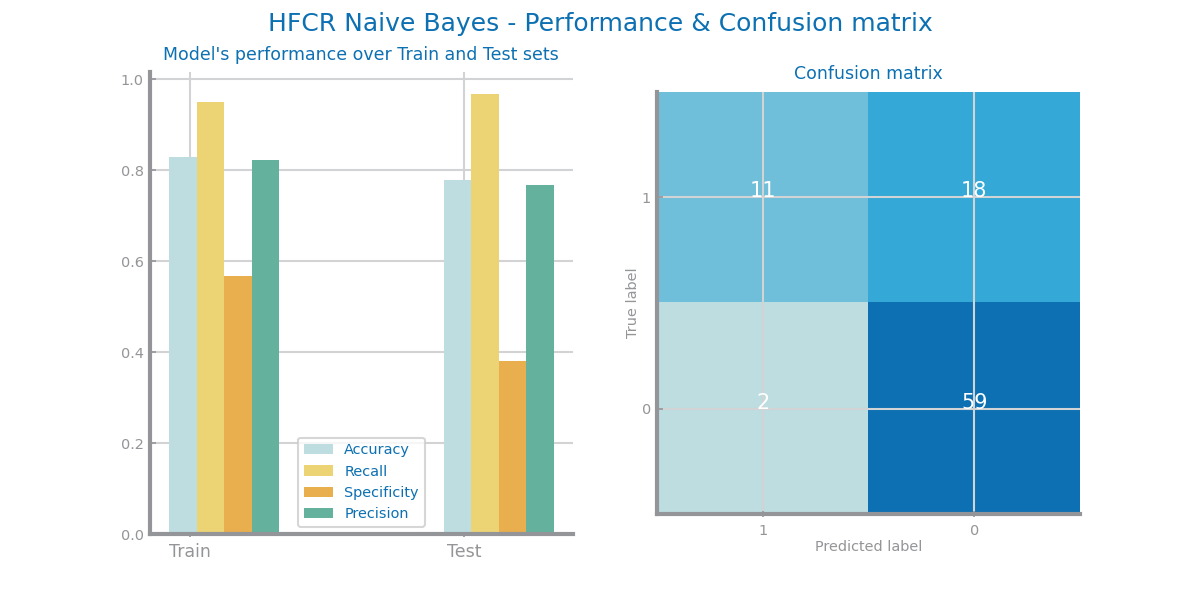
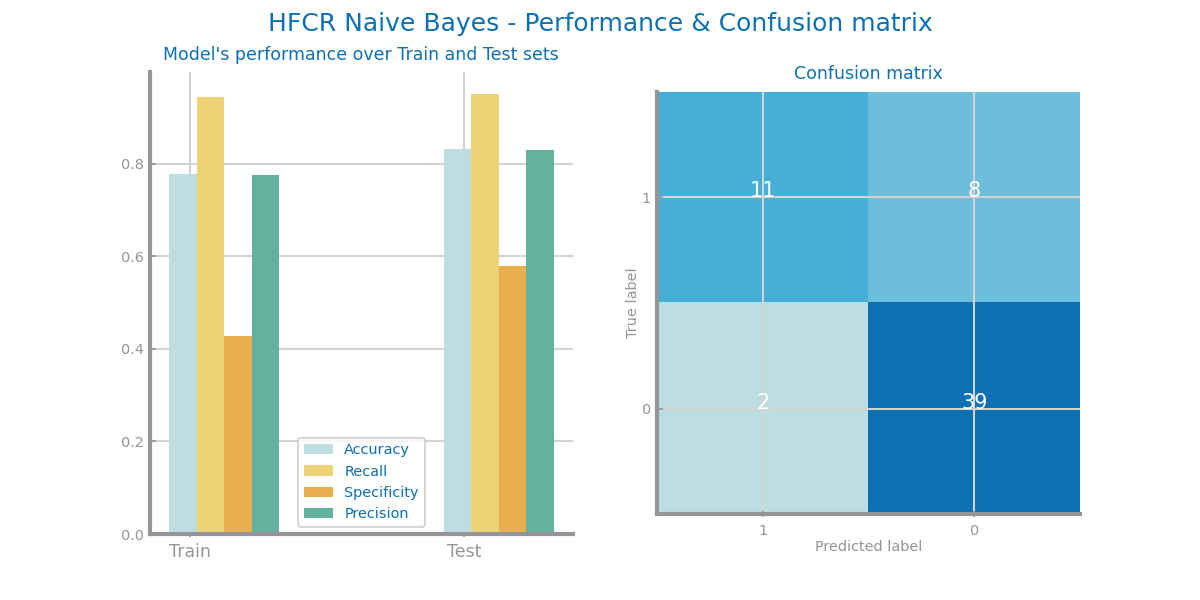
data preparattion outliers + naive bayes kfold

diff --git a/Labs/Lab03/HFCR_naivebayes.py b/Labs/Lab03/HFCR_naivebayes.py
@@ -1,7 +1,7 @@
 import numpy as np
 import pandas as pd
 import matplotlib.pyplot as plt
-from sklearn.model_selection import train_test_split
+from sklearn.model_selection import StratifiedKFold
 import sklearn.metrics as metrics
 from sklearn.naive_bayes import GaussianNB, MultinomialNB, BernoulliNB
 import ds_functions as ds
@@ -28,13 +28,30 @@ y: np.ndarray = data.pop('DEATH_EVENT').values
 X: np.ndarray = data.values
 labels = pd.unique(y)
 
-trnX, tstX, trnY, tstY = train_test_split(X, y, train_size=0.7, stratify=y)
+n_splits = 5
+skf = StratifiedKFold(n_splits=n_splits, shuffle=True)
+splitIterator = iter(skf.split(X, y))
 
 clf = GaussianNB()
-clf.fit(trnX, trnY)
-prd_trn = clf.predict(trnX)
-prd_tst = clf.predict(tstX)
-ds.plot_evaluation_results(pd.unique(y), trnY, prd_trn, tstY, prd_tst)
+best_iteration_accuracy = 0
+model_sets = ([], [], [], [])
+for model in splitIterator:
+    trnX = X[model[0]]
+    trnY = y[model[0]]
+    tstX = X[model[1]]
+    tstY = y[model[1]]
+
+    clf.fit(trnX, trnY)
+    prd_trn = clf.predict(trnX)
+    prd_tst = clf.predict(tstX)
+
+    iteration_accuracy = metrics.accuracy_score(tstY, prd_tst)
+
+    if iteration_accuracy > best_iteration_accuracy:
+    	best_iteration_accuracy = iteration_accuracy
+    	model_sets = (trnY, prd_trn, tstY, prd_tst)
+
+ds.plot_evaluation_results(pd.unique(y), model_sets[0], model_sets[1], model_sets[2], model_sets[3])
 plt.suptitle('HFCR Naive Bayes - Performance & Confusion matrix')
 plt.savefig(graphsDir + 'HFCR Naive Bayes - Performance & Confusion matrix')
 
@@ -48,10 +65,25 @@ estimators = {'GaussianNB': GaussianNB(),
 xvalues = []
 yvalues = []
 for clf in estimators:
-    xvalues.append(clf)
-    estimators[clf].fit(trnX, trnY)
-    prdY = estimators[clf].predict(tstX)
-    yvalues.append(metrics.accuracy_score(tstY, prdY))
+	xvalues.append(clf)
+	splitIterator = iter(skf.split(X, y))
+
+	best_iteration_accuracy = 0
+	for model in splitIterator:
+		trnX = X[model[0]]
+		trnY = y[model[0]]
+		tstX = X[model[1]]
+		tstY = y[model[1]]
+
+		estimators[clf].fit(trnX, trnY)
+		prd_tst = estimators[clf].predict(tstX)
+
+		iteration_accuracy = metrics.accuracy_score(tstY, prd_tst)
+
+		if iteration_accuracy > best_iteration_accuracy:
+			best_iteration_accuracy = iteration_accuracy
+
+	yvalues.append(iteration_accuracy)
 
 plt.figure(figsize=(7,7))
 ds.bar_chart(xvalues, yvalues, title='Comparison of Naive Bayes Models', ylabel='accuracy', percentage=True)

diff --git a/Labs/Lab05/data_preparation_functions.py b/Labs/Lab05/data_preparation_functions.py
@@ -23,8 +23,8 @@ def outliers_removal(data, target):
         q1 = data[var].quantile(0.25)
         q3 = data[var].quantile(0.75)
         iqr = q3 - q1
-        lower_limit = q1 -  (1.5/2)*iqr
-        higher_limit = q3 + (1.5/2)*iqr
+        lower_limit = q1 -  1.5*iqr
+        higher_limit = q3 + 1.5*iqr
 
         acceptable_values = data.loc[(data[var] >= lower_limit) & (data[var] <= higher_limit)]
 
